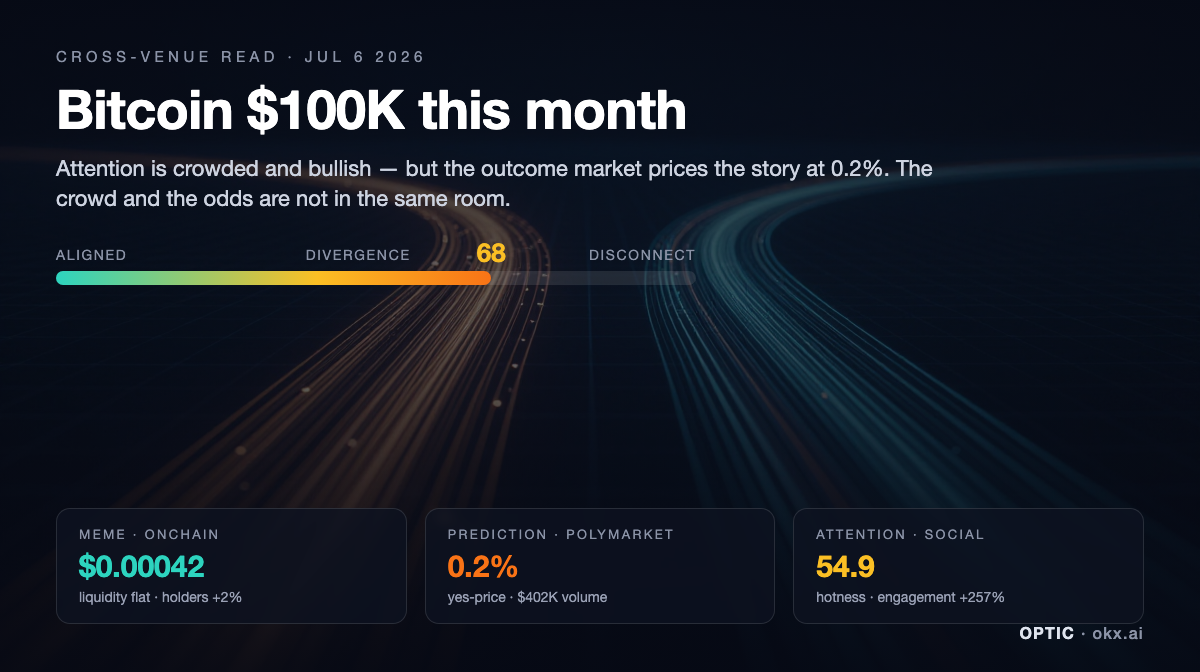
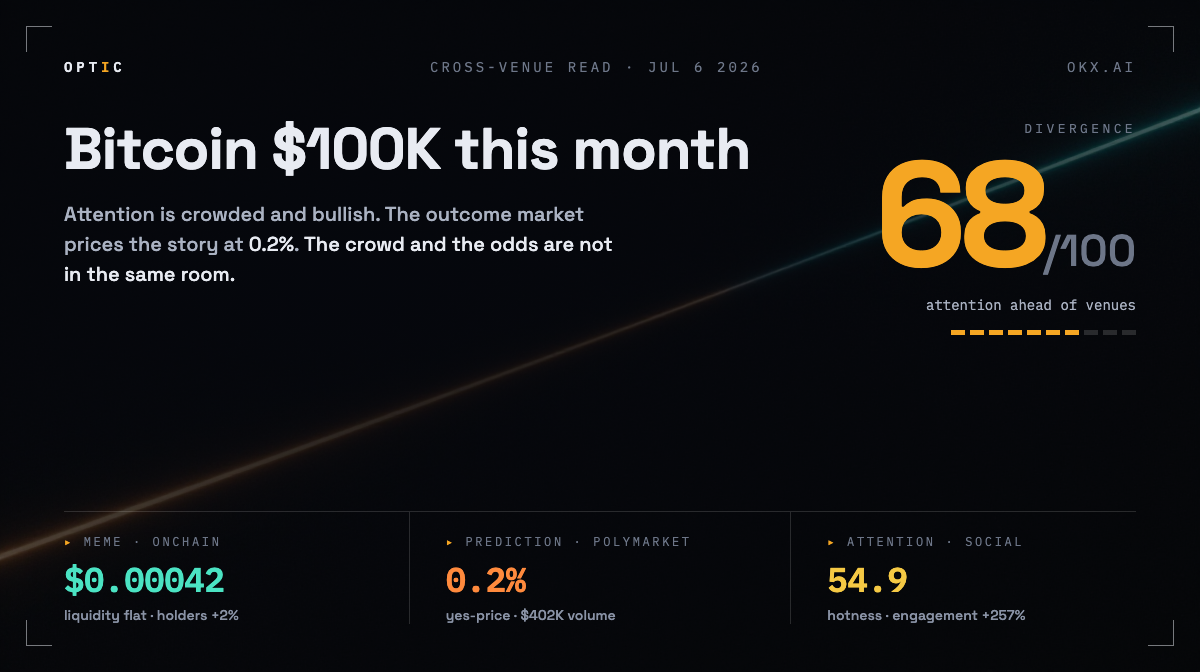
phase0: card style locked — instrument variant (reticle, mono data, amber divergence numeral)

diff --git a/fixtures/cards/card_template.html b/fixtures/cards/card_template.html
@@ -1,46 +1,81 @@
+<link rel="preconnect" href="https://fonts.googleapis.com">
+<link href="https://fonts.googleapis.com/css2?family=Space+Grotesk:wght@500;700&family=IBM+Plex+Mono:wght@400;500;600&display=swap" rel="stylesheet">
 <style>
   * { margin: 0; padding: 0; box-sizing: border-box; }
   .card {
     width: 1200px; height: 672px; position: relative; overflow: hidden;
-    font-family: -apple-system, "Helvetica Neue", Arial, sans-serif;
-    background: #0a0e1a; color: #fff;
+    background: #05070d; color: #e8ebf2;
+    font-family: "Space Grotesk", sans-serif;
   }
-  .card img.bg { position: absolute; inset: 0; width: 100%; height: 100%; object-fit: cover; opacity: 0.55; }
-  .card .scrim { position: absolute; inset: 0; background: linear-gradient(180deg, rgba(6,9,20,.82) 0%, rgba(6,9,20,.25) 45%, rgba(6,9,20,.88) 100%); }
-  .inner { position: absolute; inset: 0; padding: 48px 56px; display: flex; flex-direction: column; }
-  .kicker { font-size: 15px; letter-spacing: .3em; color: #8b93a7; text-transform: uppercase; }
-  h1 { font-size: 54px; font-weight: 800; letter-spacing: -0.01em; margin-top: 10px; }
-  .verdict { font-size: 22px; color: #cdd3e0; margin-top: 12px; max-width: 900px; line-height: 1.35; }
-  .meter-wrap { margin-top: 34px; }
-  .meter-label { display: flex; justify-content: space-between; font-size: 14px; color: #8b93a7; letter-spacing: .12em; text-transform: uppercase; margin-bottom: 8px; max-width: 640px; }
-  .meter { width: 640px; height: 14px; border-radius: 7px; background: rgba(255,255,255,.10); position: relative; }
-  .meter .fill { width: 68%; height: 100%; border-radius: 7px; background: linear-gradient(90deg, #2dd4bf, #fbbf24 60%, #f97316); }
-  .meter .score { position: absolute; left: 68%; top: -34px; transform: translateX(-50%); font-size: 26px; font-weight: 800; color: #fbbf24; }
-  .chips { display: flex; gap: 18px; margin-top: auto; }
-  .chip { flex: 1; background: rgba(13,18,32,.78); border: 1px solid rgba(255,255,255,.12); border-radius: 14px; padding: 18px 22px; backdrop-filter: blur(4px); }
-  .chip .lens { font-size: 13px; letter-spacing: .18em; text-transform: uppercase; color: #8b93a7; }
-  .chip .stat { font-size: 30px; font-weight: 800; margin-top: 6px; }
-  .chip .sub { font-size: 14px; color: #9aa1b5; margin-top: 4px; }
-  .chip.meme .stat { color: #2dd4bf; } .chip.pred .stat { color: #f97316; } .chip.attn .stat { color: #fbbf24; }
-  .brand { position: absolute; right: 56px; bottom: 30px; font-size: 16px; font-weight: 700; letter-spacing: .08em; color: #dfe4ee; }
-  .brand span { color: #8b93a7; font-weight: 500; }
+  .card img.bg { position: absolute; inset: 0; width: 100%; height: 100%; object-fit: cover; opacity: 0.75; }
+  .vignette { position: absolute; inset: 0; background:
+    radial-gradient(ellipse 90% 80% at 30% 40%, rgba(5,7,13,.92) 0%, rgba(5,7,13,.55) 55%, rgba(5,7,13,.25) 100%); }
+  .mono { font-family: "IBM Plex Mono", monospace; }
+
+  /* reticle corners */
+  .ret { position: absolute; width: 26px; height: 26px; border-color: rgba(232,235,242,.5); border-style: solid; border-width: 0; }
+  .ret.tl { top: 26px; left: 26px; border-top-width: 1.5px; border-left-width: 1.5px; }
+  .ret.tr { top: 26px; right: 26px; border-top-width: 1.5px; border-right-width: 1.5px; }
+  .ret.bl { bottom: 26px; left: 26px; border-bottom-width: 1.5px; border-left-width: 1.5px; }
+  .ret.br { bottom: 26px; right: 26px; border-bottom-width: 1.5px; border-right-width: 1.5px; }
+
+  .inner { position: absolute; inset: 0; padding: 58px 64px 48px; display: flex; flex-direction: column; }
+  .topline { display: flex; justify-content: space-between; align-items: baseline; font-size: 14px; letter-spacing: .22em; color: #6d7688; text-transform: uppercase; }
+  .topline .brand { color: #e8ebf2; font-weight: 600; letter-spacing: .28em; }
+  .topline .brand em { font-style: normal; color: #f5a623; }
+
+  .main { display: flex; margin-top: 44px; gap: 48px; }
+  .story { flex: 1; min-width: 0; }
+  h1 { font-size: 58px; line-height: 1.02; font-weight: 700; letter-spacing: -0.015em; }
+  .verdict { margin-top: 20px; font-size: 20px; line-height: 1.5; color: #aab2c2; max-width: 560px; }
+  .verdict b { color: #e8ebf2; font-weight: 500; }
+
+  .dial { width: 300px; flex-shrink: 0; text-align: right; }
+  .dial .label { font-size: 13px; letter-spacing: .26em; color: #6d7688; text-transform: uppercase; }
+  .dial .num { font-size: 148px; line-height: .95; font-weight: 700; letter-spacing: -0.04em; color: #f5a623; margin-top: 8px; }
+  .dial .num span { font-size: 44px; color: #6d7688; font-weight: 500; letter-spacing: 0; }
+  .dial .dir { margin-top: 10px; font-size: 14px; color: #aab2c2; }
+  .ticks { display: flex; gap: 5px; margin-top: 16px; justify-content: flex-end; }
+  .ticks i { width: 14px; height: 5px; background: rgba(255,255,255,.14); }
+  .ticks i.on { background: #f5a623; }
+
+  .venues { margin-top: auto; border-top: 1px solid rgba(255,255,255,.14); display: flex; }
+  .v { flex: 1; padding: 22px 0 0; position: relative; }
+  .v + .v { padding-left: 36px; border-left: 1px solid rgba(255,255,255,.14); margin-left: 36px; }
+  .v .lens { font-size: 12px; letter-spacing: .22em; text-transform: uppercase; color: #6d7688; }
+  .v .lens::before { content: "▸ "; color: #f5a623; }
+  .v .stat { font-size: 34px; font-weight: 600; margin-top: 8px; letter-spacing: -0.01em; }
+  .v .sub { font-size: 14px; color: #8a93a6; margin-top: 5px; }
+  .v.meme .stat { color: #4be3c3; } .v.pred .stat { color: #ff8a3d; } .v.attn .stat { color: #f5c944; }
 </style>
 <div class="card">
-  <img class="bg" src="card_b_bg.png">
-  <div class="scrim"></div>
+  <img class="bg" src="bg2.png">
+  <div class="vignette"></div>
+  <i class="ret tl"></i><i class="ret tr"></i><i class="ret bl"></i><i class="ret br"></i>
   <div class="inner">
-    <div class="kicker">Cross-venue read · Jul 6 2026</div>
-    <h1>Bitcoin $100K this month</h1>
-    <div class="verdict">Attention is crowded and bullish — but the outcome market prices the story at 0.2%. The crowd and the odds are not in the same room.</div>
-    <div class="meter-wrap">
-      <div class="meter-label"><span>Aligned</span><span>Divergence</span><span>Disconnect</span></div>
-      <div class="meter"><div class="fill"></div><div class="score">68</div></div>
+    <div class="topline mono">
+      <span class="brand">OPT<em>I</em>C</span>
+      <span>cross-venue read · jul 6 2026</span>
+      <span>okx.ai</span>
     </div>
-    <div class="chips">
-      <div class="chip meme"><div class="lens">Meme · onchain</div><div class="stat">$0.00042</div><div class="sub">liquidity flat · holders +2%</div></div>
-      <div class="chip pred"><div class="lens">Prediction · polymarket</div><div class="stat">0.2%</div><div class="sub">yes-price · $402K volume</div></div>
-      <div class="chip attn"><div class="lens">Attention · social</div><div class="stat">54.9</div><div class="sub">hotness · engagement +257%</div></div>
+    <div class="main">
+      <div class="story">
+        <h1>Bitcoin $100K this month</h1>
+        <div class="verdict">Attention is crowded and bullish. The outcome market prices the story at <b>0.2%</b>. <b>The crowd and the odds are not in the same room.</b></div>
+      </div>
+      <div class="dial">
+        <div class="label mono">divergence</div>
+        <div class="num">68<span>/100</span></div>
+        <div class="dir mono">attention ahead of venues</div>
+        <div class="ticks">
+          <i class="on"></i><i class="on"></i><i class="on"></i><i class="on"></i><i class="on"></i><i class="on"></i><i class="on"></i><i></i><i></i><i></i>
+        </div>
+      </div>
+    </div>
+    <div class="venues">
+      <div class="v meme"><div class="lens mono">meme · onchain</div><div class="stat mono">$0.00042</div><div class="sub">liquidity flat · holders +2%</div></div>
+      <div class="v pred"><div class="lens mono">prediction · polymarket</div><div class="stat mono">0.2%</div><div class="sub">yes-price · $402K volume</div></div>
+      <div class="v attn"><div class="lens mono">attention · social</div><div class="stat mono">54.9</div><div class="sub">hotness · engagement +257%</div></div>
     </div>
   </div>
-  <div class="brand">OPTIC <span>· okx.ai</span></div>
 </div>

diff --git a/NOTES.md b/NOTES.md
@@ -47,17 +47,21 @@ Headers: `OK-ACCESS-KEY`, `OK-ACCESS-PASSPHRASE`, `OK-ACCESS-TIMESTAMP` (ISO),
 - Garbage queries fuzzy-match CLOSED markets → lens must filter `active && !closed` + volume floor (implemented)
 - Live World Cup 2026 + Fed rate markets confirmed — demo material
 
-## Venice card gate (Phase 0-D, decided Jul 6)
+## Venice card gate (Phase 0-D, decided Jul 6; style locked after iteration)
 - **DECISION: composite approach locked.** Venice background + code-composited text.
   Pure-AI text (ideogram-v4, $0.06) mangled every number ("$$1;62612") and ignored
   the 1200x672 frame — unusable for a stats product. Composite is pixel-sharp.
-- **Locked: model `z-image-turbo`, $0.01/card, ~4s.** Style prompt: "abstract dark
-  navy financial data landscape, luminous amber/cyan data streams diverging, subtle
-  grid horizon, no text" — divergence as the literal visual motif.
-- Composite layer: HTML/CSS template (fixtures/cards/card_template.html) — dark scrim
-  over bg, kicker, title, verdict line, divergence meter w/ score, three venue chips,
-  OPTIC · okx.ai mark. Phase 3 renders it headless (satori or browser).
+- **Style LOCKED: "Instrument" (user-approved from 3 variants).** Reticle corner
+  marks (lens motif), Space Grotesk headline + IBM Plex Mono data, amber 68/100
+  divergence numeral top-right with tick gauge, venue stats as bottom data strip,
+  OPTIC brand top-left with amber I. Template: fixtures/cards/card_template.html.
+- **Background locked: model `z-image-turbo`, $0.01/card, ~4s.** Prompt: "very dark
+  near-black abstract, two thin luminous streams (amber/cyan) splitting apart and
+  diverging toward opposite corners, particle trails, deep black negative space,
+  film grain, no text" — divergence as the literal visual motif.
 - Sample: fixtures/cards/sample_btc100k.png (built from REAL Jul 6 fixture data).
+- Phase 3 note: template loads Space Grotesk/IBM Plex Mono from Google Fonts CDN —
+  bundle the font files locally for server-side rendering (satori needs them anyway).
 - **COGS per read (all measured): OKX ~$0 (free quota) + Venice $0.01 + Anthropic
   (est. $0.02–0.05) ≈ $0.03–0.06 — 5–10x under the $0.30 cap.**
 